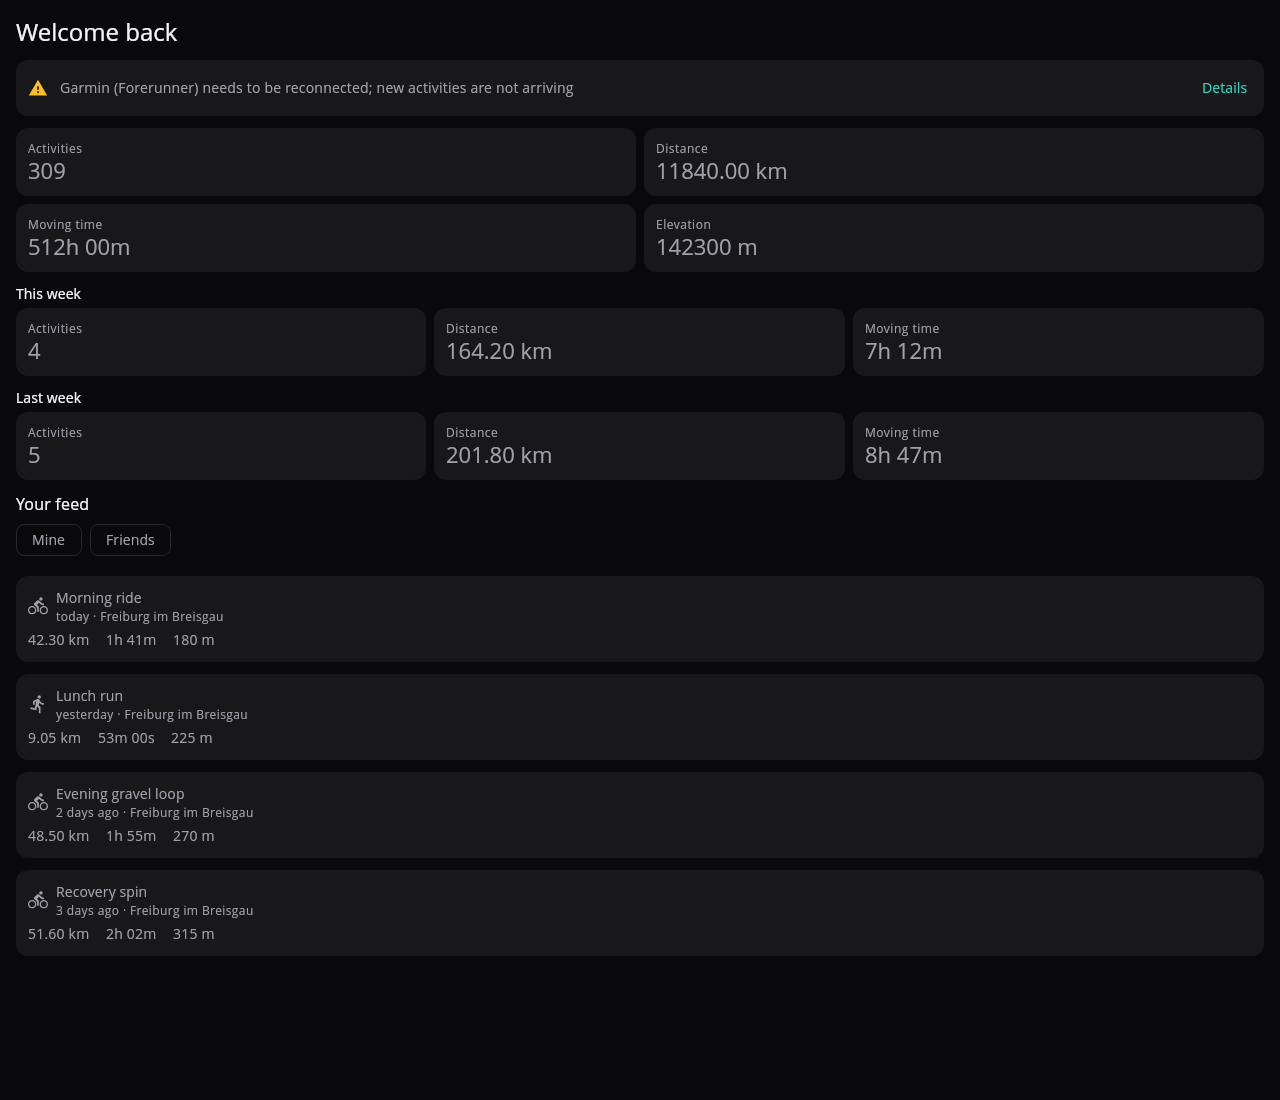
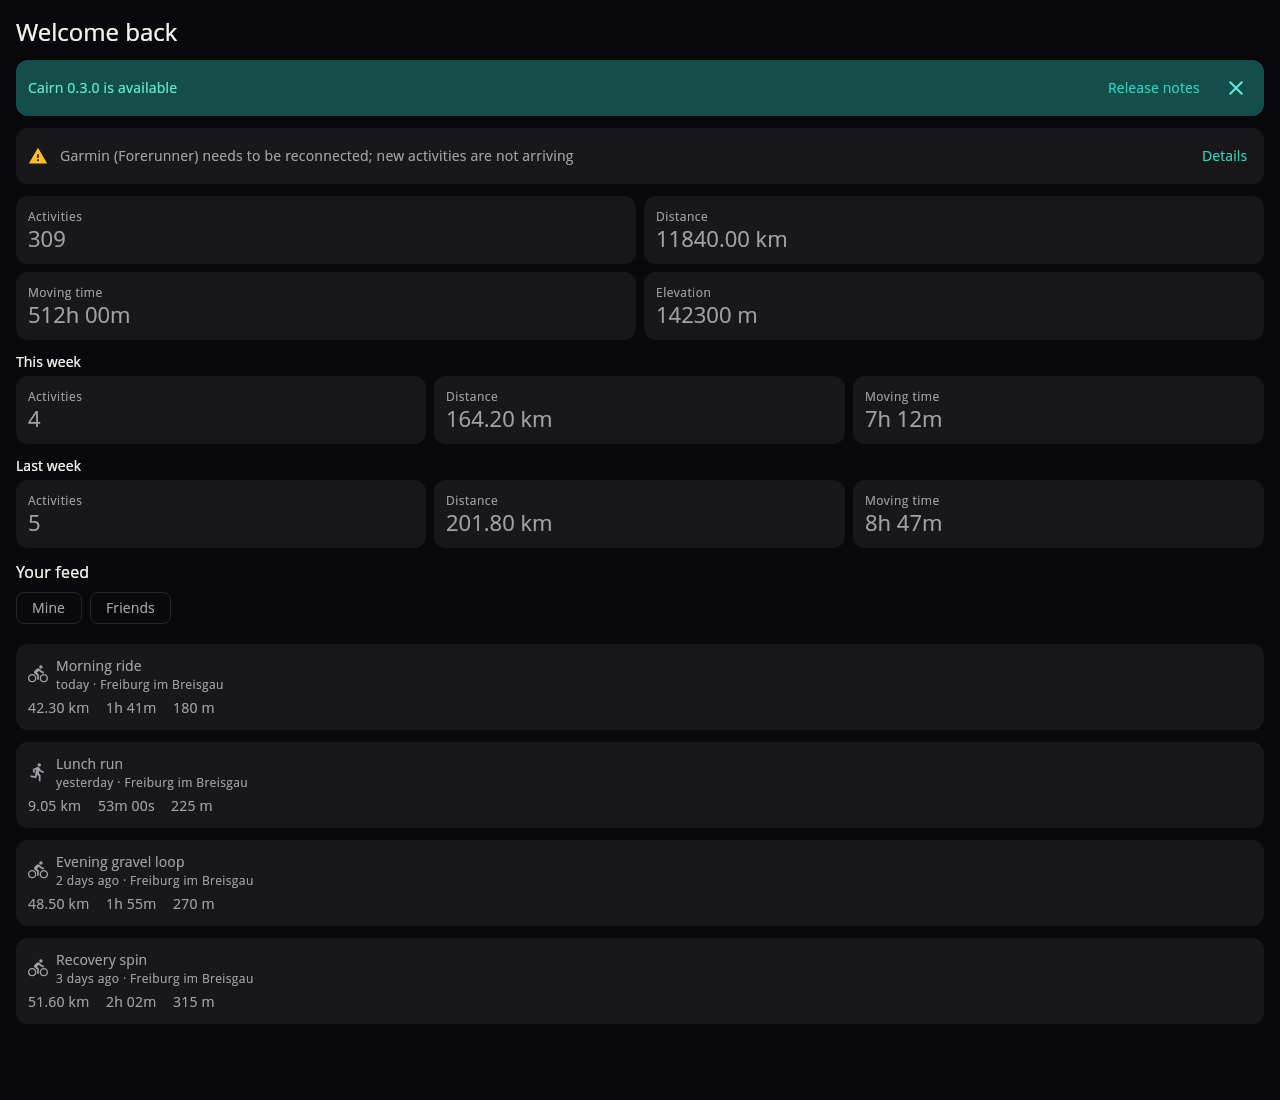
feat(update): tell GitHub-distributed builds about a newer release
The README promised that the Android app checks the release page; nothing
did. Release builds of the GitHub flavour now ask the project's latest
release once a day when the app is opened and show a card on the overview
when it is newer than the running version: a link to the release notes and
a way to dismiss it until the next release.

Settings gain a switch for the check, with a line saying what it does: one
request to GitHub a day that carries nothing about the user or their server.
Play builds, debug builds and the desktop packages (Conveyor updates those)
neither check nor show the switch.

diff --git a/feature/overview/src/commonMain/kotlin/org/opencairn/cairn/feature/overview/OverviewScreen.kt b/feature/overview/src/commonMain/kotlin/org/opencairn/cairn/feature/overview/OverviewScreen.kt
@@ -9,12 +9,14 @@ import androidx.compose.foundation.layout.size
 import androidx.compose.foundation.lazy.LazyColumn
 import androidx.compose.foundation.lazy.items
 import androidx.compose.material.icons.Icons
+import androidx.compose.material.icons.filled.Close
 import androidx.compose.material.icons.filled.Sync
 import androidx.compose.material.icons.filled.Warning
 import androidx.compose.material3.Card
 import androidx.compose.material3.CardDefaults
 import androidx.compose.material3.FilterChip
 import androidx.compose.material3.Icon
+import androidx.compose.material3.IconButton
 import androidx.compose.material3.MaterialTheme
 import androidx.compose.material3.Text
 import androidx.compose.material3.TextButton
@@ -25,6 +27,7 @@ import androidx.compose.ui.Modifier
 import androidx.compose.ui.unit.dp
 import androidx.lifecycle.compose.collectAsStateWithLifecycle
 import org.jetbrains.compose.resources.stringResource
+import org.opencairn.cairn.core.domain.model.AppRelease
 import org.opencairn.cairn.core.domain.model.FeedItem
 import org.opencairn.cairn.core.domain.model.Overview
 import org.opencairn.cairn.core.domain.model.SyncNotice
@@ -53,6 +56,9 @@ import org.opencairn.cairn.ui.design.resources.sync_notice_importing
 import org.opencairn.cairn.ui.design.resources.sync_notice_offline
 import org.opencairn.cairn.ui.design.resources.sync_notice_rate_limited
 import org.opencairn.cairn.ui.design.resources.sync_notice_sign_in
+import org.opencairn.cairn.ui.design.resources.update_available
+import org.opencairn.cairn.ui.design.resources.update_dismiss
+import org.opencairn.cairn.ui.design.resources.update_open
 import org.opencairn.cairn.ui.design.theme.CairnColors
 
 @Composable
@@ -62,6 +68,7 @@ fun OverviewScreen(
     dates: DateFormatters,
     federationEnabled: Boolean,
     actions: OverviewActions,
+    update: AppRelease? = null,
 ) {
     val state by viewModel.state.collectAsStateWithLifecycle()
     val overview = state.overview.value
@@ -78,6 +85,7 @@ fun OverviewScreen(
             verticalArrangement = Arrangement.spacedBy(12.dp),
         ) {
             item { Text(stringResource(Res.string.overview_welcome), style = MaterialTheme.typography.headlineSmall) }
+            update?.let { release -> item(key = "update") { UpdateCard(release, actions) } }
             state.syncNotice?.let { notice -> item(key = "sync") { SyncNoticeCard(notice, actions.onOpenConnections) } }
             if (overview != null) {
                 item { TotalsGrid(overview.totals, formatters) }
@@ -230,6 +238,38 @@ private fun SyncNoticeCard(
             )
             Text(text, style = MaterialTheme.typography.bodyMedium, modifier = Modifier.weight(1f))
             TextButton(onClick = onDetails) { Text(stringResource(Res.string.sync_notice_details)) }
+        }
+    }
+}
+
+/** A newer release: where to read about it, and a way to make the card go away until the next one. */
+@Composable
+private fun UpdateCard(
+    release: AppRelease,
+    actions: OverviewActions,
+) {
+    Card(
+        colors = CardDefaults.cardColors(containerColor = MaterialTheme.colorScheme.primaryContainer),
+        modifier = Modifier.fillMaxWidth(),
+    ) {
+        Row(
+            modifier = Modifier.padding(start = 12.dp, top = 4.dp, bottom = 4.dp, end = 4.dp),
+            verticalAlignment = Alignment.CenterVertically,
+        ) {
+            Text(
+                stringResource(Res.string.update_available, release.version),
+                style = MaterialTheme.typography.bodyMedium,
+                color = MaterialTheme.colorScheme.onPrimaryContainer,
+                modifier = Modifier.weight(1f),
+            )
+            TextButton(onClick = { actions.onOpenUpdate(release) }) { Text(stringResource(Res.string.update_open)) }
+            IconButton(onClick = { actions.onDismissUpdate(release) }) {
+                Icon(
+                    Icons.Default.Close,
+                    contentDescription = stringResource(Res.string.update_dismiss),
+                    tint = MaterialTheme.colorScheme.onPrimaryContainer,
+                )
+            }
         }
     }
 }

diff --git a/app/shared/src/commonMain/kotlin/org/opencairn/cairn/app/App.kt b/app/shared/src/commonMain/kotlin/org/opencairn/cairn/app/App.kt
@@ -19,11 +19,13 @@ import androidx.compose.material3.Surface
 import androidx.compose.material3.Text
 import androidx.compose.runtime.Composable
 import androidx.compose.runtime.CompositionLocalProvider
+import androidx.compose.runtime.LaunchedEffect
 import androidx.compose.runtime.getValue
 import androidx.compose.runtime.remember
 import androidx.compose.runtime.rememberCoroutineScope
 import androidx.compose.runtime.staticCompositionLocalOf
 import androidx.compose.ui.Modifier
+import androidx.compose.ui.platform.LocalUriHandler
 import androidx.compose.ui.unit.dp
 import androidx.lifecycle.compose.collectAsStateWithLifecycle
 import androidx.lifecycle.viewmodel.compose.LocalViewModelStoreOwner
@@ -79,6 +81,7 @@ import org.opencairn.cairn.feature.account.RecordsScreen
 import org.opencairn.cairn.feature.account.RecordsViewModel
 import org.opencairn.cairn.feature.account.SettingsScreen
 import org.opencairn.cairn.feature.account.SettingsViewModel
+import org.opencairn.cairn.feature.account.UpdateSetting
 import org.opencairn.cairn.feature.activities.ActivitiesScreen
 import org.opencairn.cairn.feature.activities.ActivitiesViewModel
 import org.opencairn.cairn.feature.activities.ActivityDetailActions
@@ -250,6 +253,12 @@ private fun AppNavDisplay(
     modifier: Modifier,
 ) {
     val scope = rememberCoroutineScope()
+    val uriHandler = LocalUriHandler.current
+    val updates = graph.updateRepository
+    val update by updates.availableUpdate.collectAsStateWithLifecycle(initialValue = null)
+    val updateCheck by updates.checkEnabled.collectAsStateWithLifecycle(initialValue = true)
+    // Once per start of the shell; the repository itself asks the release page at most once a day.
+    LaunchedEffect(updates) { updates.checkIfDue() }
     val unread =
         notifications.state
             .collectAsStateWithLifecycle()
@@ -309,7 +318,10 @@ private fun AppNavDisplay(
                             OverviewActions(
                                 onOpenActivity = { backStack.add(Route.ActivityDetail(it)) },
                                 onOpenConnections = { backStack.add(Route.Connections) },
+                                onOpenUpdate = { uriHandler.openUri(it.url) },
+                                onDismissUpdate = { scope.launch { updates.dismiss(it.version) } },
                             ),
+                            update,
                         )
                     }
                 }
@@ -526,10 +538,13 @@ private fun AppNavDisplay(
 
                 is Route.Settings -> {
                     NavEntry(key) {
+                        val updateSetting =
+                            UpdateSetting(updateCheck) { on -> scope.launch { updates.setCheckEnabled(on) } }
                         SettingsScreen(
                             settingsViewModel(),
                             user,
                             account,
+                            updateSetting.takeIf { updates.supported },
                             onBack = back,
                         ) { backStack.add(Route.ApproveDevice) }
                     }

diff --git a/feature/account/src/commonMain/kotlin/org/opencairn/cairn/feature/account/SettingsScreen.kt b/feature/account/src/commonMain/kotlin/org/opencairn/cairn/feature/account/SettingsScreen.kt
@@ -2,6 +2,7 @@ package org.opencairn.cairn.feature.account
 
 import androidx.compose.foundation.layout.Arrangement
 import androidx.compose.foundation.layout.Column
+import androidx.compose.foundation.layout.Row
 import androidx.compose.foundation.layout.fillMaxSize
 import androidx.compose.foundation.layout.fillMaxWidth
 import androidx.compose.foundation.layout.padding
@@ -12,9 +13,11 @@ import androidx.compose.material3.OutlinedButton
 import androidx.compose.material3.SegmentedButton
 import androidx.compose.material3.SegmentedButtonDefaults
 import androidx.compose.material3.SingleChoiceSegmentedButtonRow
+import androidx.compose.material3.Switch
 import androidx.compose.material3.Text
 import androidx.compose.runtime.Composable
 import androidx.compose.runtime.getValue
+import androidx.compose.ui.Alignment
 import androidx.compose.ui.Modifier
 import androidx.compose.ui.unit.dp
 import androidx.lifecycle.compose.collectAsStateWithLifecycle
@@ -40,6 +43,9 @@ import org.opencairn.cairn.ui.design.resources.settings_title
 import org.opencairn.cairn.ui.design.resources.settings_units
 import org.opencairn.cairn.ui.design.resources.settings_units_imperial
 import org.opencairn.cairn.ui.design.resources.settings_units_metric
+import org.opencairn.cairn.ui.design.resources.settings_update_check
+import org.opencairn.cairn.ui.design.resources.settings_update_check_hint
+import org.opencairn.cairn.ui.design.resources.settings_updates
 
 /** Account facts, editable format and units, the server, and device approval. */
 @Composable
@@ -47,6 +53,7 @@ fun SettingsScreen(
     viewModel: SettingsViewModel,
     user: User?,
     account: AccountKey?,
+    updates: UpdateSetting?,
     onBack: () -> Unit,
     onApproveDevice: () -> Unit,
 ) {
@@ -81,7 +88,24 @@ fun SettingsScreen(
             state.server?.version?.let { StatRow("cairn-core", it) }
             Section(Res.string.settings_devices)
             OutlinedButton(onClick = onApproveDevice) { Text(stringResource(Res.string.approve_device_title)) }
+            updates?.let { UpdateCheck(it) }
         }
+    }
+}
+
+@Composable
+private fun UpdateCheck(setting: UpdateSetting) {
+    Section(Res.string.settings_updates)
+    Row(verticalAlignment = Alignment.CenterVertically, horizontalArrangement = Arrangement.spacedBy(12.dp)) {
+        Column(modifier = Modifier.weight(1f)) {
+            Text(stringResource(Res.string.settings_update_check), style = MaterialTheme.typography.bodyLarge)
+            Text(
+                stringResource(Res.string.settings_update_check_hint),
+                style = MaterialTheme.typography.bodySmall,
+                color = MaterialTheme.colorScheme.onSurfaceVariant,
+            )
+        }
+        Switch(checked = setting.enabled, onCheckedChange = setting.onChange)
     }
 }
 

diff --git a/app/shared/src/desktopTest/kotlin/org/opencairn/cairn/app/screenshots/AccountScreenshotsTest.kt b/app/shared/src/desktopTest/kotlin/org/opencairn/cairn/app/screenshots/AccountScreenshotsTest.kt
@@ -1,5 +1,6 @@
 package org.opencairn.cairn.app.screenshots
 
+import org.opencairn.cairn.core.domain.model.AppRelease
 import org.opencairn.cairn.feature.account.AccountActions
 import org.opencairn.cairn.feature.account.AccountScreen
 import org.opencairn.cairn.feature.account.AccountViewModel
@@ -15,7 +16,7 @@ import kotlin.test.Test
 
 class AccountScreenshotsTest : ScreenshotTest() {
     @Test
-    fun overviewWithSyncNotice() =
+    fun overviewWithUpdateAndSyncNotice() =
         onEveryDevice("overview", height = 1100) {
             OverviewScreen(
                 OverviewViewModel(SampleOverview(), SampleSync()),
@@ -23,6 +24,7 @@ class AccountScreenshotsTest : ScreenshotTest() {
                 dates,
                 federationEnabled = false,
                 OverviewActions(onOpenActivity = {}, onOpenConnections = {}),
+                update = AppRelease("0.3.0", "https://github.com/opencairn-org/cairn-kmp/releases/tag/v0.3.0"),
             )
         }
 

diff --git a/app/android/src/main/kotlin/org/opencairn/cairn/android/CairnApplication.kt b/app/android/src/main/kotlin/org/opencairn/cairn/android/CairnApplication.kt
@@ -30,6 +30,10 @@ class AndroidPlatformContext(
     private val app: CairnApplication,
 ) : PlatformContext {
     override val appVersion: String = BuildConfig.VERSION_NAME
+
+    // Release builds from the GitHub release page have no store to update them; debug builds carry a
+    // development version that every release would look newer than.
+    override val updateNotice: Boolean = BuildConfig.DISTRIBUTION == "github" && !BuildConfig.DEBUG
     override val databaseDriverFactory = DatabaseDriverFactory(app)
     override val authPlatform: AuthPlatform =
         object : AuthPlatform {

diff --git a/feature/overview/src/commonMain/kotlin/org/opencairn/cairn/feature/overview/OverviewActions.kt b/feature/overview/src/commonMain/kotlin/org/opencairn/cairn/feature/overview/OverviewActions.kt
@@ -1,7 +1,11 @@
 package org.opencairn.cairn.feature.overview
 
-/** Where the overview leads: an activity of the feed, the connections behind the sync line. */
+import org.opencairn.cairn.core.domain.model.AppRelease
+
+/** Where the overview leads: an activity of the feed, the connections behind the sync line, a new release. */
 data class OverviewActions(
     val onOpenActivity: (String) -> Unit,
     val onOpenConnections: () -> Unit,
+    val onOpenUpdate: (AppRelease) -> Unit = {},
+    val onDismissUpdate: (AppRelease) -> Unit = {},
 )

diff --git a/feature/account/src/commonMain/kotlin/org/opencairn/cairn/feature/account/UpdateSetting.kt b/feature/account/src/commonMain/kotlin/org/opencairn/cairn/feature/account/UpdateSetting.kt
@@ -1,0 +1,7 @@
+package org.opencairn.cairn.feature.account
+
+/** The update check's switch in the settings; absent on builds that update through a store or packager. */
+data class UpdateSetting(
+    val enabled: Boolean,
+    val onChange: (Boolean) -> Unit,
+)
